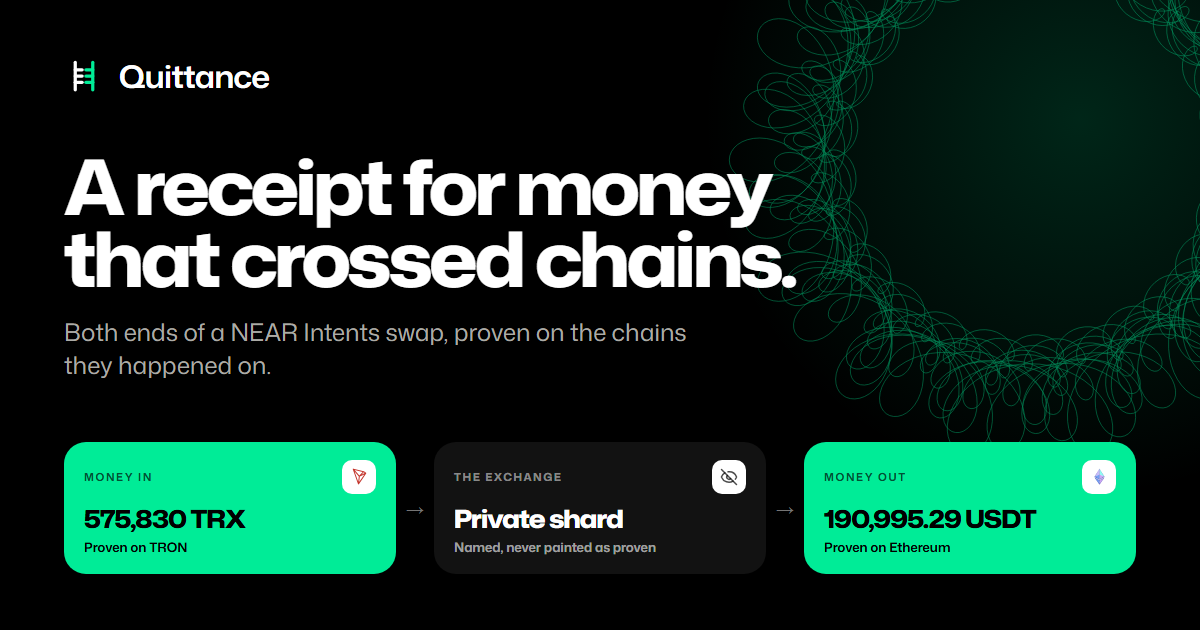
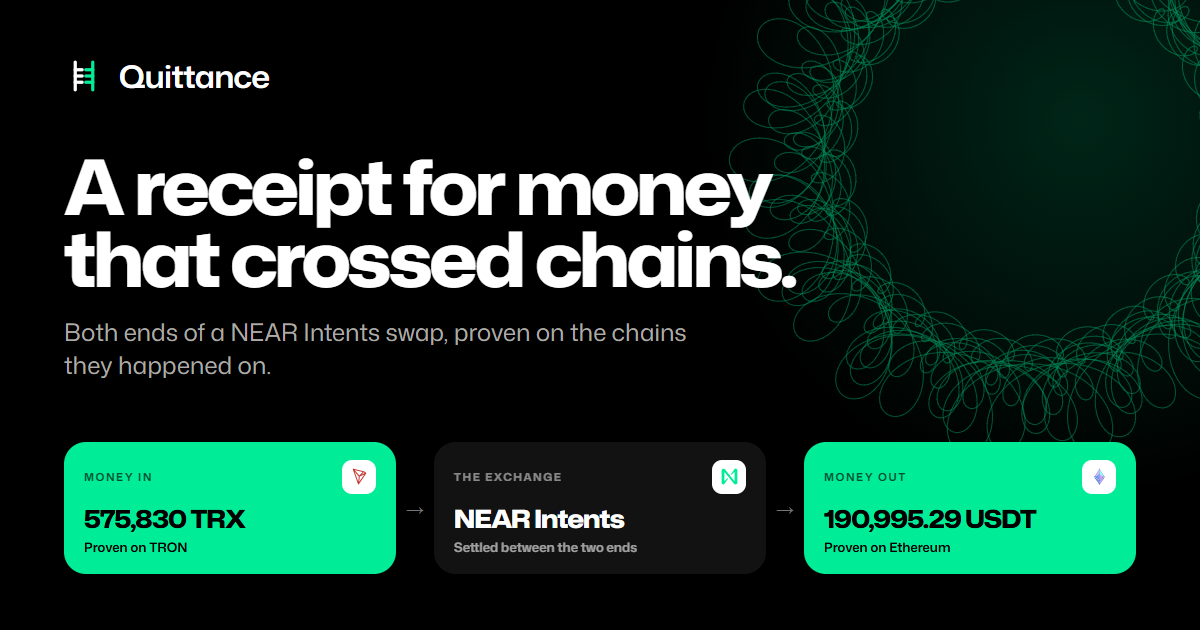
Ready the repository for judges: a one page submission, the launch images, and no working notes
The social card now names NEAR Intents as the middle of the $193K swap, which settled before
the confidential switch. The recording brief, design notes and old pitch generator stay local.

Changed region(s): [[0.37, 0.7841, 0.555, 0.8746], [0.5858, 0.7238, 0.6167, 0.7841], [0.4317, 0.754, 0.4625, 0.7841]]

diff --git a/docs/SUBMISSION.md b/docs/SUBMISSION.md
@@ -1,80 +1,71 @@
-# Submission kit
+# Quittance: NEAR Hackathon submission
 
-Everything here is ready to use on 1 November. Submissions open 1 Nov 00:00 UTC and close
-14 Nov 23:59 UTC, so nothing can be filed before then.
+**A receipt for money that crossed chains.** Paste any transaction hash, deposit address or wallet
+from a NEAR Intents swap. Quittance proves the deposit and the payout on the chains they happened
+on, and says plainly what public records cannot show.
 
-## Order of operations on the day
+| | |
+| --- | --- |
+| Live | https://quittance-five.vercel.app |
+| Repository | https://github.com/AustinChris1/quittance |
+| Docs | https://quittance-five.vercel.app/docs |
+| Demo | The 60 second film in the launch post on X, linked in the submission form |
+| Tracks | Open Innovation, Unstoppable DeFi, Privacy and Private AI, Real-World Money |
+| Built | 26 October to 1 November 2026, every line after the hackathon was announced |
 
-1. Make the repository public. `gh repo edit AustinChris1/quittance --visibility public`
-2. Record the demo (script below). One take, one screen, no narration needed.
-3. Post it to X with the copy below. The post must say it was built at NEAR HACKATHON.
-4. Fill the form at nearhackathon.com with the repo link and the post link.
+![Quittance](../brand/social-card-1200x630.png)
 
-Both links are required and the submission cannot be edited afterwards.
+## The problem
 
-## Demo video
+A NEAR Intents swap shows its user a status word: `PROCESSING`, `FAILED`, `SUCCESS`. When money
+seems stuck, that word is all anyone has, and nobody can look the swap up. The status endpoint
+is keyed only by deposit address. The correlation id that support threads quote identifies one HTTP
+request, not the swap; three calls for one swap returned three different ids.
 
-The full production brief is [DEMO.md](DEMO.md): seven scenes, 1:40 to 2:00, with what to show,
-click and say in each, the claims you may make, and what not to film. The order is the $193K payout
-proven at both ends, the wallet that was paid, the confidential shield it refuses to over-claim, and
-a live watch alert.
+Since 27 October, 1Click swaps settle on the NEAR Private Shard, so the status word now
+describes a step no public record can reach.
 
-## X post
+## What Quittance does
 
-> A status is a claim. A receipt is evidence.
->
-> A $193K NEAR Intents swap was reported as failed with a zero refund. The deposit had arrived on
-> TRON, and 190,995 USDT reached the recipient on Ethereum 12 days before the complaint was filed.
->
-> I built Quittance at NEAR HACKATHON to read both ends of a cross-chain swap on their own chains,
-> and to say plainly what public records cannot show.
->
-> Try it: quittance-five.vercel.app
+1. Resolves any identifier: a transaction from either chain, the deposit address, or a wallet. A
+   wallet lists its swaps instead of guessing one.
+2. Reads the deposit on the origin chain and the payout on the destination chain, from each
+   chain's own public nodes: nine EVM chains (Ethereum, Base, Arbitrum, Optimism, Polygon, BNB Chain,
+   Gnosis, Avalanche, Robinhood Chain), TRON, Solana and NEAR.
+3. Reconciles what arrived against the quote and its guaranteed minimum.
+4. Returns one of eight labels. Each receipt carries what was observed, the limits of what can be
+   seen, and the next step, and is fingerprinted with sha256 over canonical JSON.
+5. Watches a swap and sends a browser alert once, when its evidence changes.
 
-Attach the demo video. Keep the repo link in a reply rather than the main post, so the video
-carries the first impression.
+## What it found
 
-## Form answers
+- **The $193K case was not lost.** A forum post on 9 October reported 575,830 TRX as failed with
+  zero refund. Quittance proved the deposit on TRON and 190,995.293894 USDT delivered to the
+  quoted recipient on Ethereum on 27 September, 12 days before the post. That is 0.40% under the
+  quote and inside its guarantee.
+- **The tail is real.** On 26 October, 44 swaps had taken a deposit, sent nothing on and charged no
+  refund, at a median age of 255 days, holding about $334,000 of quoted notional. That is the
+  quoted value, not a realised loss.
+- **It works on real traffic.** On 28 October, 81.8% of external payouts in the last 1,000 swaps
+  were on a chain Quittance reads, and 99 of 100 sampled payouts were proven on their own chain,
+  with none contradicted.
 
-- **Project name:** Quittance
-- **Tracks:** Open Innovation, Unstoppable DeFi, Privacy and Private AI. Real-World Money is the weakest fit; add it only if you want the payment-proof use case judged there.
-- **Repository:** https://github.com/AustinChris1/quittance
-- **Description, 20 to 2000 characters:**
+## Check it yourself in a minute
 
-> Quittance answers one question: what actually happened to a NEAR Intents swap.
->
-> Paste a transaction hash from any chain the swap touched, the deposit address its quote issued,
-> or the wallet that sent or received it. Quittance proves the deposit on the origin chain and the
-> payout on the destination chain, each read from that chain, and reconciles what arrived
-> against the quote. It returns one of eight labels, each carrying the facts observed, the limits of
-> what it can see, and the next action.
->
-> That matters more since 27 October, when NEAR made 1Click swaps confidential only. The
-> exchange now settles on the NEAR Private Shard, so a status word describes a step no public
-> record can reach. The two ends stay public, and those are what Quittance proves. On 28 October,
-> 81.8 percent of external payouts were on a chain it reads, and 99 of 100 sampled payouts proved
-> on their own chain.
->
-> It was built around a case we then disproved with it. A deposit of 575,830 TRX, about $193K,
-> was reported on the NEAR forum as failed with a zero refund. It had settled: the TRX reached the
-> deposit address on TRON, and 190,995.29 USDT reached the recipient on Ethereum on 27 September,
-> twelve days before the complaint. The poster cited a refund field reading zero as proof of loss,
-> which on a settled swap is the correct value.
->
-> The rate is not the problem; the tail is. On 26 October, 44 swaps had taken a deposit, produced no
-> destination transaction and charged no refund, at a median age of 255 days, holding about $334,000
-> of quoted notional. Their owners cannot look them up: the status endpoint is keyed only by deposit
-> address, and the correlation id support threads quote identifies one HTTP request.
->
-> Quittance holds no keys, moves no funds, files nothing on anyone's behalf and claims no recovered
-> money. Seventeen frozen cases, each with provenance, are re-classified on every test run. Run
-> `node apps/cli/src/main.ts verify` to check the labels yourself.
+Node 24 or newer, no install, no keys:
 
-## Development timeline
+```
+node apps/cli/src/main.ts verify
+node apps/cli/src/main.ts check --deposit TBy2io3Q3Jt4UM4ejDhkkUQJZgZuXw2sus
+```
 
-The rules on nearhackathon.com say "Code written since the announcement counts". The README carries
-the dates so nobody has to infer them:
+The first re-classifies all 17 frozen cases and prints `labels correct 17 of 17`. The second
+reads the $193K swap live from mainnet and proves both ends. The [README](../README.md) walks
+through every other command.
 
-- 19 October 2026: the hackathon is announced.
-- 26 October 2026: first commit. Everything in the repository was written from this date on.
-- 1 to 14 November 2026: the submission window.
+## What it will not do
+
+It holds no keys, moves no funds, files nothing on anyone's behalf, and claims no recovered money.
+On a private route it proves the shield and says that delivery and loss cannot be proven from
+public data. "Proven" means read from the chain's public RPC endpoints with an explorer link to
+check, not a light-client proof, and the receipt says so.

diff --git a/README.md b/README.md
@@ -2,18 +2,24 @@
 
 [![ci](https://github.com/AustinChris1/quittance/actions/workflows/ci.yml/badge.svg)](https://github.com/AustinChris1/quittance/actions/workflows/ci.yml)
 
-A receipt for money that crossed chains.
+![Quittance: both ends of a NEAR Intents swap, proven on the chains they happened on](brand/social-card-1200x630.png)
 
-Paste a transaction hash from any chain a NEAR Intents swap touched, the deposit address its quote
-issued, or the wallet that sent or received it. Quittance reads public records only, proves the
-deposit and the payout on the chains they happened on, and returns one of eight labels with the
-facts it observed, the limits of what it can see, and the next step. It holds no keys, moves no
-funds, and opens no support tickets.
+**A receipt for money that crossed chains.** When a NEAR Intents swap says `FAILED`, or says
+`SUCCESS` and nothing seems to arrive, the status word is all anyone has. Quittance replaces it with
+evidence.
+
+Paste a transaction hash from any chain the swap touched, the deposit address its quote issued, or
+the wallet that sent or received it. Quittance reads public records only, proves the deposit and the
+payout on the chains they happened on, and returns one of eight labels with the facts it observed,
+the limits of what it can see, and the next step. It holds no keys, moves no funds, and opens no
+support tickets.
 
 A quittance is an old legal word for a written receipt proving an obligation has been discharged.
 
-- Live: https://quittance-five.vercel.app
-- Docs: https://quittance-five.vercel.app/docs
+- **Try it:** https://quittance-five.vercel.app
+- **Docs:** https://quittance-five.vercel.app/docs
+- **Submission summary, one page:** [docs/SUBMISSION.md](docs/SUBMISSION.md)
+- **Check it in a minute, no install or keys:** `node apps/cli/src/main.ts verify`, then [Run it](#run-it)
 
 ## What it found on its first real case
 
@@ -398,8 +404,8 @@ The commit history carries the rest, one working step per commit.
 
 The mark is a split tally: a debt notched across a stick, split so each party held half, proven
 discharged when the halves matched, which is how Quittance matches a swap's deposit to its
-delivery. The kit, with marks, icons, lockups, the social card and the X banner, is in
-[`brand/`](brand/README.md).
+delivery. The kit, with marks, icons, lockups, the social card, the X banner and the launch
+thread's images, is in [`brand/`](brand/README.md), and `node brand/build.mjs` rebuilds all of it.
 
 ## Built for
 

diff --git a/brand/README.md b/brand/README.md
@@ -24,6 +24,7 @@ It is eight round-capped strokes on a 32 unit grid, with no fill, texture or fon
 | X or GitHub avatar | `avatar-400.png` (circle safe) |
 | X header | `x-banner-1500x500.png` (clear of the profile photo at lower left) |
 | Link preview | `social-card-1200x630.png`, served by the site as `/og.png` |
+| Launch thread on X | `thread/1-…png` to `thread/4-…png` (3200 x 1800, 16:9), one per post |
 | The guilloché motif | `guilloche-mint.svg` |
 
 ## Colour
